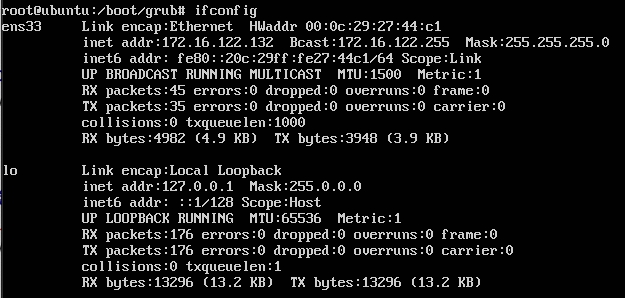
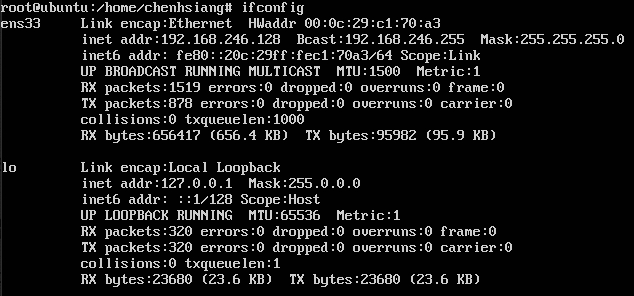
commit

Changed region(s): [[0.0, 0.0, 1.0, 1.0], [0.1216, 0.5473, 0.8208, 0.973]]

diff --git a/source/_drafts/linux-setting-network.md b/source/_drafts/linux-setting-network.md
@@ -15,10 +15,10 @@ tags:
 
 <!-- more -->
 
-- `ens33` 是虛擬機建立時提供給它的網路卡一，整個區塊都是這張網路卡的資訊
 - `lo` 是Loopback，能用來作為測試作業系統內部迴圈所用的一個網域
-- `inet addr: 172.16.122.132` 是目前`ens33`這張網路卡所取得的私有IP
-- `Bcast: 172.16.122.255` 是目前172.16.122.xxx這個網段下的廣播IP
+- `ens33` 是虛擬機建立時提供給它的網路卡一，整個區塊都是這張網路卡的資訊
+- `inet addr: 192.168.246.128` 是目前`ens33`這張網路卡所取得的私有IP
+- `Bcast: 192.168.246.255` 是目前172.16.122.xxx這個網段下的廣播IP
 - `Mask: 255.255.255.0` 是網路遮罩的十進位表示方法
 
 ### 設定 Network interfaces, DNS
@@ -38,10 +38,37 @@ vi /etc/network/interfaces
 若沒有指定特定IP位置，而且目前也可以正確的連線到Internet，也可以使用預設的DHCP自動取得的IP做使用
 若想要安排在這個網段裡這台機器要使用哪個IP，就必需要自己設定了
 
+以下是要修改的interfaces檔案內容：
+```
+auto ens33    ->  ens33 是機器的網路卡名稱，請自行修改。
+iface ens33 inet static
+
+# 下面的IP要修改為機器網段的IP
+address 192.168.246.168
+netmask 255.255.255.0
+gateway 192.168.246.2
+
+# 設定DNS Server
+dns-nameservers 168.95.1.1
+dns-nameservers 8.8.8.8
+```
+
+設定完成後存檔離開，再來就要刷新網路卡設定跟重新啟動網路卡
+```
+# 刷新設定
+sudo ip addr flush ens33    ->  網路卡名稱要記得修改哦
+
+# 重啟網路卡（不是root權限會要求輸入密碼）
+/etc/init.d/networking restart
+```
+
+下查詢指令後會看到 IP已經更新
+{% asset_img networking-flush.jpg 刷新網路卡設定再重啟網路卡 %}
+
 #### Ubuntu 18.04 LTS
 
-adskfj
+到Ubuntu 18.04的機器後，先查詢網路資訊
+{% asset_img networking-18-ifconfig.jpg Ubuntu 18.04 LTS ifconfig %}
 
-alkdfjlasd
-
-aldkfjlasdk
+如果我們跟 Ubuntu 16.04 一樣開啟 /etc/network/interfaces 的檔案，會看到：
+{% asset_img networking-18-interfaces.jpg 查看interfaces檔案 %}
